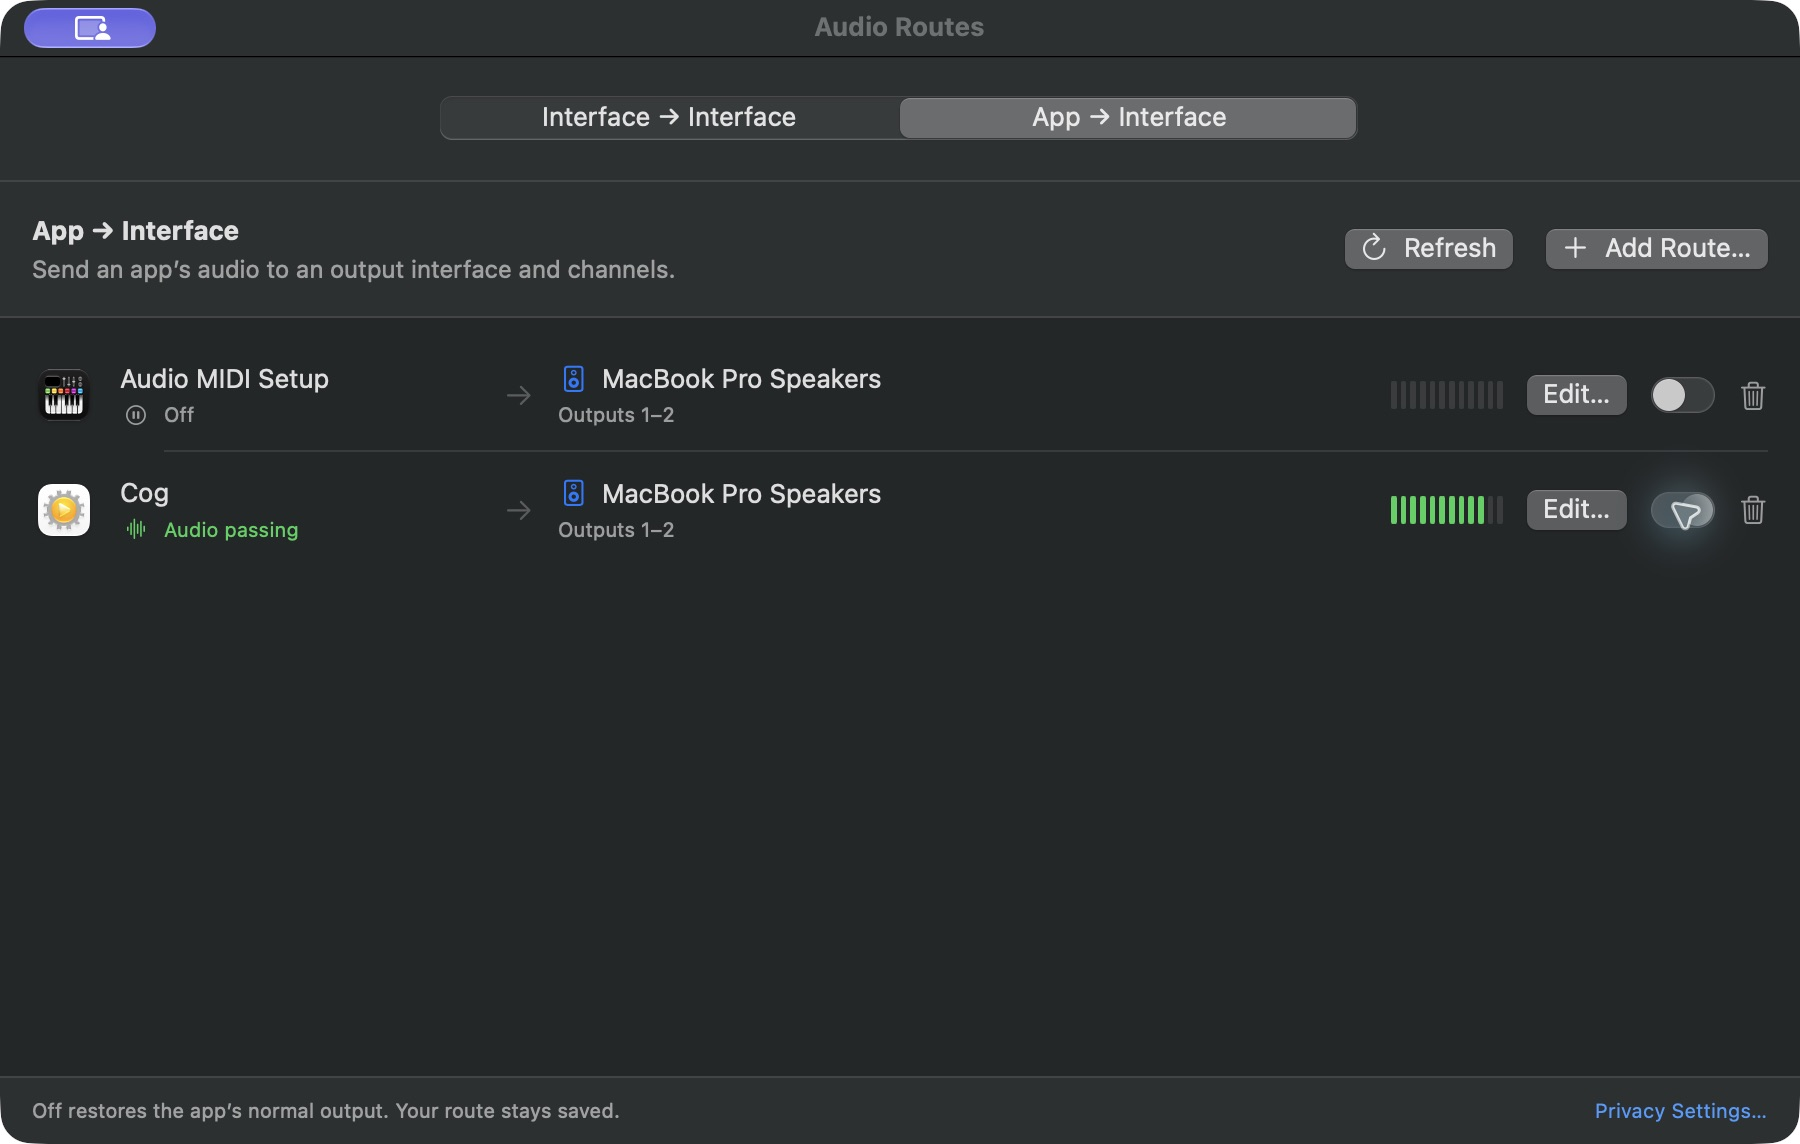
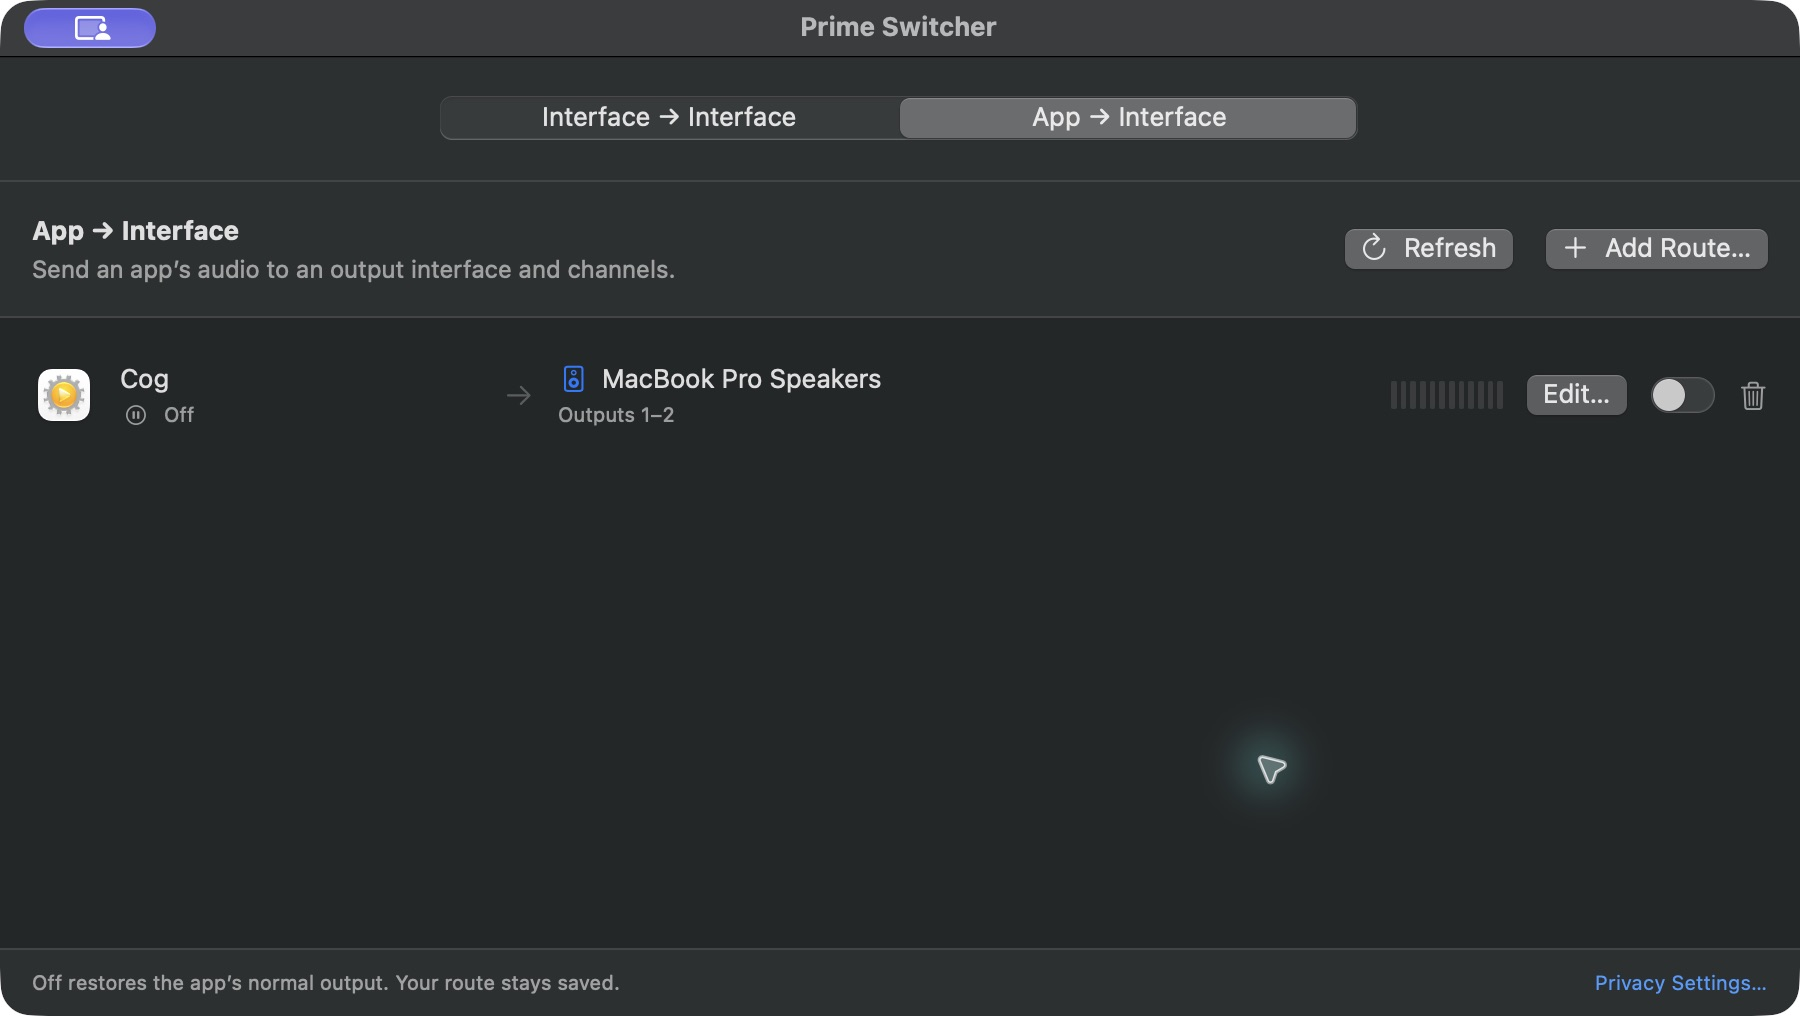
Ship one Prime Switcher app with a clean identity

diff --git a/Sources/Input-to-Output-Monitor/InputToOutputMonitorApp.swift b/Sources/Input-to-Output-Monitor/InputToOutputMonitorApp.swift
@@ -1,34 +1,12 @@
 import SwiftUI
 import AppKit
 
-enum ApplicationMode: Equatable {
-    case inputMonitor
-    case applicationRouter
-
-    static var current: ApplicationMode {
-        if Bundle.main.bundleIdentifier == "com.mrk.applicationaudiorouter"
-            || CommandLine.arguments.contains("--router") {
-            return .applicationRouter
-        }
-        return .inputMonitor
-    }
-
-    var displayName: String {
-        switch self {
-        case .inputMonitor: "Input-to-Output Monitor"
-        case .applicationRouter: "Application Audio Router"
-        }
-    }
-}
-
 @main
 struct InputToOutputMonitorApp: App {
     @StateObject private var deviceManager: InputToOutputDeviceManager
-    @StateObject private var engine = InputToOutputMonitorEngine()
     @StateObject private var processManager: AppAudioProcessManager
     @StateObject private var interfaceController: InterfaceRouteController
     @StateObject private var routeController: AudioRouteController
-    private let appMode = ApplicationMode.current
 
     init() {
         // The route controller watches the same device and process lists the
@@ -48,7 +26,6 @@ struct InputToOutputMonitorApp: App {
         WindowGroup {
             ContentView()
                 .environmentObject(deviceManager)
-                .environmentObject(engine)
                 .environmentObject(processManager)
                 .environmentObject(routeController)
                 .environmentObject(interfaceController)
@@ -59,20 +36,20 @@ struct InputToOutputMonitorApp: App {
         .windowResizability(.contentSize)
         .commands {
             CommandGroup(replacing: .appInfo) {
-                Button("About \(appMode.displayName)") {
+                Button("About Prime Switcher") {
                     NSApp.orderFrontStandardAboutPanel(nil)
                 }
             }
             CommandGroup(after: .appInfo) {
                 Divider()
-                Button("Quit \(appMode.displayName)") {
+                Button("Quit Prime Switcher") {
                     stopAndQuit()
                 }
                 .keyboardShortcut("q")
             }
             CommandGroup(replacing: .newItem) {
                 Button("New App Route…") {
-                    UserDefaults.standard.set(1, forKey: "AudioRouter.selectedSection")
+                    UserDefaults.standard.set(1, forKey: "PrimeSwitcher.selectedSection")
                     routeController.isPresentingNewRoute = true
                 }.keyboardShortcut("n", modifiers: [.command])
             }
@@ -91,7 +68,7 @@ struct InputToOutputMonitorApp: App {
     /// `--route-self-test <bundle ID>,<output UID>,<left>,<right> …`: run each
     /// route, unmuted, for three seconds, write the measured levels to
     /// /tmp/router-self-test.txt and quit. Channels are one-based. Run with
-    /// `open -n -W "Application Audio Router.app" --args …` so the test uses
+    /// `open -n -W "Prime Switcher.app" --args …` so the test uses
     /// the app's own System Audio Recording permission.
     private func runSelfTestIfRequested() {
         let arguments = CommandLine.arguments
@@ -132,7 +109,6 @@ struct InputToOutputMonitorApp: App {
     }
 
     private func stopAndQuit() {
-        engine.stop()
         interfaceController.stopAll()
         routeController.stopAll()
         NSApp.terminate(nil)

diff --git a/Sources/Input-to-Output-Monitor/ContentView.swift b/Sources/Input-to-Output-Monitor/ContentView.swift
@@ -4,7 +4,7 @@ import CoreAudio
 
 struct ContentView: View {
 
-    @AppStorage("AudioRouter.selectedSection") private var selectedSection = 0
+    @AppStorage("PrimeSwitcher.selectedSection") private var selectedSection = 0
 
     var body: some View {
         VStack(spacing: 0) {
@@ -20,7 +20,7 @@ struct ContentView: View {
             if selectedSection == 0 { InterfaceRoutesView() } else { RoutesView() }
         }
         .frame(minWidth: 860, idealWidth: 940, minHeight: 480, idealHeight: 560)
-        .navigationTitle("Audio Routes")
+        .navigationTitle("Prime Switcher")
     }
 
 }

diff --git a/Tests/AudioRouterTests/RouteControllerTests.swift b/Tests/AudioRouterTests/RouteControllerTests.swift
@@ -292,7 +292,7 @@ struct RouteControllerTests {
     @Test func corruptConfigurationStartsEmpty() {
         let fixture = Fixture()
         defer { fixture.cleanUp() }
-        for key in ["ApplicationAudioRouter.routes.v1", "ApplicationAudioRouter.interfaceRoutes.v1"] {
+        for key in ["PrimeSwitcher.appRoutes.v1", "PrimeSwitcher.interfaceRoutes.v1"] {
             fixture.defaults.set(Data("invalid JSON".utf8), forKey: key)
         }
         #expect(fixture.apps().routes.isEmpty)

diff --git a/Sources/Input-to-Output-Monitor/InputToOutputDevices.swift b/Sources/Input-to-Output-Monitor/InputToOutputDevices.swift
@@ -75,8 +75,8 @@ final class InputToOutputDeviceManager: ObservableObject {
     private var isRefreshing = false
 
     private enum DefaultsKey {
-        static let inputUID = "InputToOutputMonitor.selectedInputUID"
-        static let outputUID = "InputToOutputMonitor.selectedOutputUID"
+        static let inputUID = "PrimeSwitcher.selectedInputUID"
+        static let outputUID = "PrimeSwitcher.selectedOutputUID"
     }
 
     init(refreshImmediately: Bool = true) {

diff --git a/Sources/Input-to-Output-Monitor/InterfaceRoutes.swift b/Sources/Input-to-Output-Monitor/InterfaceRoutes.swift
@@ -20,7 +20,7 @@ final class InterfaceRouteController: ObservableObject {
     private var runtimes: [UUID: any InterfaceRouteRuntime] = [:]
     private var deviceKeys: [UUID: String] = [:]
     private var observations: Set<AnyCancellable> = []
-    private static let key = "ApplicationAudioRouter.interfaceRoutes.v1"
+    private static let key = "PrimeSwitcher.interfaceRoutes.v1"
 
     init(
         devices: InputToOutputDeviceManager,

diff --git a/Sources/Input-to-Output-Monitor/AudioRoutes.swift b/Sources/Input-to-Output-Monitor/AudioRoutes.swift
@@ -58,7 +58,7 @@ final class AudioRouteController: ObservableObject {
     private var cancellables: Set<AnyCancellable> = []
     private var iconCache: [String: NSImage] = [:]
 
-    private static let defaultsKey = "ApplicationAudioRouter.routes.v1"
+    private static let defaultsKey = "PrimeSwitcher.appRoutes.v1"
 
     init(
         processManager: AppAudioProcessManager,

diff --git a/Package.swift b/Package.swift
@@ -4,13 +4,13 @@
 import PackageDescription
 
 let package = Package(
-    name: "Input-to-Output-Monitor",
+    name: "PrimeSwitcher",
     platforms: [
         .macOS("14.2"),
     ],
     products: [
         .executable(
-            name: "Input-to-Output-Monitor",
+            name: "PrimeSwitcher",
             targets: ["Input-to-Output-Monitor"]
         ),
     ],

diff --git a/README.md b/README.md
@@ -7,7 +7,7 @@ A native macOS audio routing window with two sections:
 
 Connections, enabled/off state, and the selected section are saved in local app configuration (UserDefaults). Enabled routes resume on launch; unavailable applications or interfaces wait until they return. Switching an interface route off stops forwarding. Switching an app route off restores the application's normal audio output. Both keep their saved settings so they can be enabled again. New connections start off.
 
-The two existing app bundles remain supported; both now show the same routing workspace. Each bundle uses its own configuration and privacy permissions.
+One **Prime Switcher.app** contains both sections and keeps both route lists in the same configuration. Prime Switcher uses its own configuration and app identity.
 
 ## Screenshots
 
@@ -21,50 +21,44 @@ Save input-to-output connections and switch each route on or off independently.
 
 Choose an app, output interface, and mono or stereo channels. The live meter shows when audio is passing.
 
-![App-to-interface routing with Cog passing audio and a live green level meter](images/app-to-interface.png)
+![Prime Switcher app-to-interface routing with a saved Cog stereo output route](images/app-to-interface.png)
 
 ## Run
 
 From this directory:
 
 ```bash
-swift run            # Input-to-Output Monitor
-make run-router      # Application Audio Router (swift run Input-to-Output-Monitor --router)
+make run             # Run Prime Switcher with both routing sections
 ```
 
 Notes:
 - You may need to grant microphone access to your terminal (System Settings -> Privacy & Security -> Microphone).
 - Application routing requires macOS 14.2 or later and System Audio Recording permission. A packaged app receives the most reliable permission identity.
 - Some device pairs may fail if the output device does not support the input device's sample rate and channel count.
-- Application Audio Router keeps a list of **routes**. A route sends one application to one or two outputs of a device, for example Chrome to outputs 3–4 and Firefox to outputs 5–6 of BlackHole 16ch. Add one with **+** or ⌘N; double-click a route to edit it, press Delete to remove it, or use its switch to turn it off. Routes are saved, start when their application opens, and rebuild when it relaunches. An application can be in one route at a time; routes on the same outputs are mixed.
+- Prime Switcher keeps a list of **routes**. A route sends one application to one or two outputs of a device, for example Chrome to outputs 3–4 and Firefox to outputs 5–6 of BlackHole 16ch. Add one with **+** or ⌘N; double-click a route to edit it, press Delete to remove it, or use its switch to turn it off. Routes are saved, start when their application opens, and rebuild when it relaunches. An application can be in one route at a time; routes on the same outputs are mixed.
 - Bluetooth, AirPlay, HDMI, and unusual multichannel layouts should be treated as experimental.
 
 ## App Bundle (Distribution)
 
-Build both distributable `.app` bundles:
+Build the universal app for Apple silicon and Intel Macs:
 
 ```bash
 ./Scripts/make-app-bundle.sh
 ```
 
-The script builds one universal binary and packages it twice:
-- `dist/Input-to-Output Monitor.app` (`com.mrk.inputtooutputmonitor`, asks for microphone access)
-- `dist/Application Audio Router.app` (`com.mrk.applicationaudiorouter`, asks for System Audio Recording access)
-
-Run them with:
+The script produces `dist/Prime Switcher.app`. Both input-interface capture and application-audio capture permissions belong to this one app. Its bundle identifier is `com.mrk.primeswitcher`.
 
 ```bash
-open "dist/Input-to-Output Monitor.app"
-open "dist/Application Audio Router.app"
+open "dist/Prime Switcher.app"
 ```
 
 ## DMG Package (Unsigned)
 
-Create a simple unsigned DMG containing both apps:
+Create an unsigned DMG containing Prime Switcher and an Applications shortcut:
 
 ```bash
 ./Scripts/make-dmg.sh
-open dist/InputToOutputMonitor.dmg
+open dist/PrimeSwitcher.dmg
 ```
 
 Notes:
